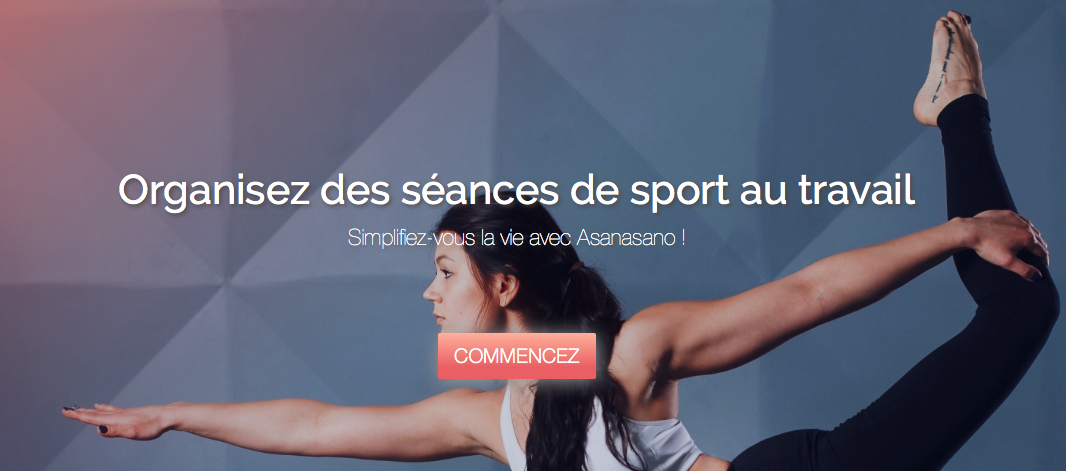
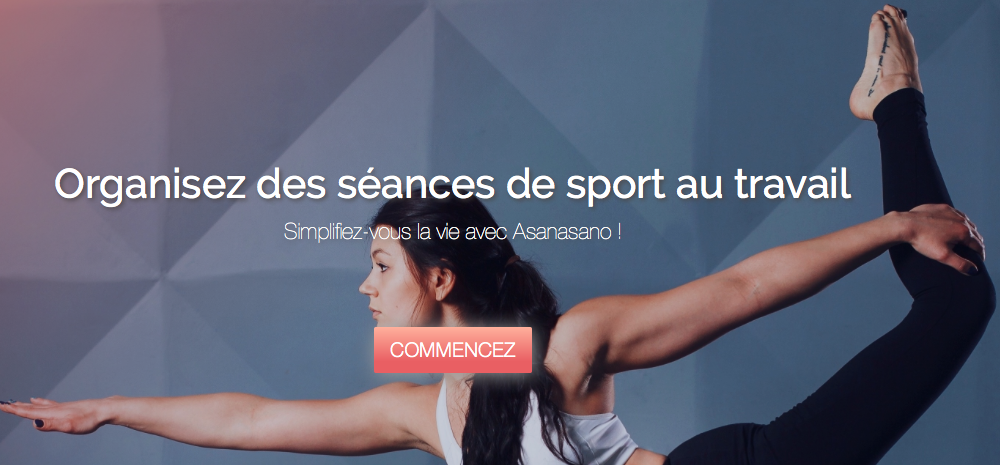
changed asanasano pic

diff --git a/index.html b/index.html
@@ -89,7 +89,7 @@
 
           <h2 class="h3">Beautiful Design</h2>
 
-          <p>Every website is beautiful, unique and tailored to suit your needs and requirements.</p>
+          <p>Every website is unique and tailored to suit your needs and requirements.</p>
         </div>
 
         <div class="col-sm-4">
@@ -105,7 +105,7 @@
 
           <h2 class="h3">Always Responsive</h2>
 
-          <p>All websites are responsive. They will look great on desktop, tablets and mobile phones too.</p>
+          <p>They will look great on desktop, tablets and mobile phones too.</p>
         </div>
       </div>
     </div>
@@ -118,8 +118,8 @@
 
       <hr />
       <div class="row">
-        <div class="col-md-4">
-          <a href="http://www.asanasano.com"> <img src="asanasano-project.png" class="center-block" alt="asanasano"></a>
+        <div class="col-sm-6 col-md-6">
+          <a href="http://www.asanasano.com"> <img src="asanasano.png" class="center-block" alt="asanasano"></a>
         </div>
       </div>
     </div>

diff --git a/style.css b/style.css
@@ -158,7 +158,7 @@ hr {
 .sec-main {
   position: relative;
   height: 400px;
-  background-color: #3E9691;
+  background-image: linear-gradient(45deg, #c3cfe2,#f5f7fa);
   background-size: cover;
 
   &:after {
@@ -178,6 +178,7 @@ img {
 }
 
 .profil-pic {
+
 }
 
 .main-heading {
@@ -234,15 +235,15 @@ img {
 }
 
 .sec-contact .form-control:focus {
-  border-color: $red;
+  border-color: black;
   box-shadow: inset 0 1px 1px rgba(0, 0, 0, .075), 0 0 8px rgba(173, 0, 0, .6);
 }
 
 .sec-contact .btn {
   padding: .5rem 1.75rem;
-  background: #000;
+  background: #f9f9f9;
   font-size: .95rem;
-  color: #fff;
+  color: slategray;
 
   @extend %transition;
 
